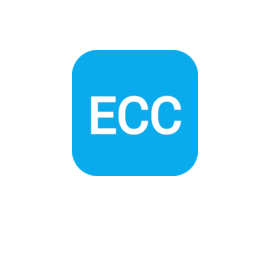
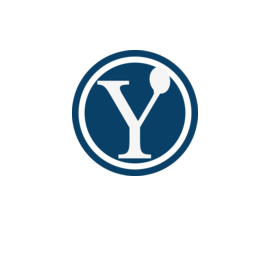
chore: change blog to myblog

Changed region(s): [[0.2667, 0.1778, 0.7407, 0.6519]]

diff --git a/src/assets/elements/Logo.tsx b/src/assets/elements/Logo.tsx
@@ -1,45 +1,15 @@
 import React from 'react';
 
 const Logo = () => (
-  <svg
-    width="40"
-    height="40"
-    viewBox="0 0 40 40"
-    fill="none"
-    xmlns="http://www.w3.org/2000/svg"
-    role="img"
-    aria-label="Logo"
-  >
-    <g clipPath="url(#clip0_37_816)">
-      <path
-        d="M32 0H8C3.58172 0 0 3.58172 0 8V32C0 36.4183 3.58172 40 8 40H32C36.4183 40 40 36.4183 40 32V8C40 3.58172 36.4183 0 32 0Z"
-        fill="#09ABEC"
-      />
-      <path
-        d="M13.6138 25.1735V26.4H7.59034V25.1735H13.6138ZM7.89502 15.0251V26.4H6.38721V15.0251H7.89502ZM12.8169 19.9156V21.1421H7.59034V19.9156H12.8169ZM13.5357 15.0251V16.2593H7.59034V15.0251H13.5357Z"
-        fill="white"
-      />
-      <path
-        d="M22.3477 22.7828H23.8477C23.7695 23.5016 23.5638 24.1448 23.2305 24.7125C22.8971 25.2803 22.4258 25.7307 21.8165 26.064C21.2071 26.3921 20.4467 26.5563 19.5353 26.5563C18.8686 26.5563 18.2618 26.4312 17.7149 26.1812C17.1733 25.9312 16.7071 25.5771 16.3165 25.1188C15.9258 24.6552 15.6238 24.1005 15.4102 23.4547C15.2019 22.8036 15.0977 22.0797 15.0977 21.2828V20.15C15.0977 19.3531 15.2019 18.6317 15.4102 17.986C15.6238 17.3349 15.9285 16.7776 16.3243 16.314C16.7253 15.8505 17.2071 15.4937 17.7695 15.2437C18.3321 14.9937 18.9649 14.8688 19.6681 14.8688C20.5274 14.8688 21.2539 15.0303 21.8477 15.3531C22.4414 15.676 22.9025 16.124 23.2305 16.6969C23.5638 17.2645 23.7695 17.9235 23.8477 18.6735H22.3477C22.2747 18.1421 22.1394 17.6864 21.9414 17.3063C21.7435 16.9208 21.4623 16.624 21.0977 16.4156C20.7331 16.2073 20.2566 16.1031 19.6681 16.1031C19.1629 16.1031 18.7175 16.1995 18.3321 16.3921C17.9519 16.5849 17.6315 16.8584 17.3711 17.2125C17.1159 17.5667 16.9233 17.9912 16.793 18.486C16.6629 18.9807 16.5977 19.5303 16.5977 20.1344V21.2828C16.5977 21.8401 16.655 22.3636 16.7695 22.8531C16.8894 23.3427 17.0691 23.7724 17.3086 24.1421C17.5482 24.512 17.8529 24.8036 18.2227 25.0172C18.5925 25.2255 19.0301 25.3297 19.5353 25.3297C20.1758 25.3297 20.6862 25.2281 21.0665 25.0251C21.4467 24.8219 21.7331 24.5303 21.9258 24.15C22.1238 23.7697 22.2643 23.314 22.3477 22.7828Z"
-        fill="white"
-      />
-      <path
-        d="M32.7695 22.7828H34.2695C34.1915 23.5016 33.9858 24.1448 33.6525 24.7125C33.3191 25.2803 32.8477 25.7307 32.2383 26.064C31.629 26.3921 30.8686 26.5563 29.9571 26.5563C29.2905 26.5563 28.6837 26.4312 28.1367 26.1812C27.5951 25.9312 27.129 25.5771 26.7383 25.1188C26.3477 24.6552 26.0457 24.1005 25.8321 23.4547C25.6238 22.8036 25.5195 22.0797 25.5195 21.2828V20.15C25.5195 19.3531 25.6238 18.6317 25.8321 17.986C26.0457 17.3349 26.3503 16.7776 26.7462 16.314C27.1471 15.8505 27.629 15.4937 28.1915 15.2437C28.7539 14.9937 29.3867 14.8688 30.0899 14.8688C30.9493 14.8688 31.6758 15.0303 32.2695 15.3531C32.8634 15.676 33.3243 16.124 33.6525 16.6969C33.9858 17.2645 34.1915 17.9235 34.2695 18.6735H32.7695C32.6967 18.1421 32.5613 17.6864 32.3634 17.3063C32.1654 16.9208 31.8842 16.624 31.5195 16.4156C31.155 16.2073 30.6785 16.1031 30.0899 16.1031C29.5847 16.1031 29.1394 16.1995 28.7539 16.3921C28.3738 16.5849 28.0534 16.8584 27.793 17.2125C27.5378 17.5667 27.3451 17.9912 27.2149 18.486C27.0847 18.9807 27.0195 19.5303 27.0195 20.1344V21.2828C27.0195 21.8401 27.0769 22.3636 27.1915 22.8531C27.3113 23.3427 27.491 23.7724 27.7305 24.1421C27.9701 24.512 28.2747 24.8036 28.6446 25.0172C29.0143 25.2255 29.4519 25.3297 29.9571 25.3297C30.5977 25.3297 31.1081 25.2281 31.4883 25.0251C31.8686 24.8219 32.155 24.5303 32.3477 24.15C32.5457 23.7697 32.6862 23.314 32.7695 22.7828Z"
-        fill="white"
-      />
-      <path
-        fillRule="evenodd"
-        clipRule="evenodd"
-        d="M19.6683 15.1849C19.0031 15.1849 18.415 15.3031 17.8983 15.5327C17.3785 15.7637 16.9347 16.0923 16.5643 16.5201C16.1989 16.9484 15.9134 17.4677 15.7111 18.0837C15.5147 18.6931 15.4142 19.3808 15.4142 20.15V21.2828C15.4142 22.0516 15.5146 22.742 15.7113 23.3568C15.9135 23.9681 16.1969 24.4855 16.5579 24.9143C16.9189 25.3376 17.3479 25.6633 17.8471 25.8939C18.3483 26.1229 18.9094 26.24 19.5355 26.24C20.4102 26.24 21.115 26.0825 21.6659 25.7861C22.2275 25.4787 22.6555 25.0677 22.9581 24.5524C23.2125 24.1192 23.3883 23.6357 23.4837 23.0991H22.6126C22.5226 23.546 22.3887 23.9457 22.2074 24.2944C21.985 24.7325 21.6521 25.0708 21.2158 25.3039C20.7727 25.5405 20.2047 25.6459 19.5355 25.6459C18.9862 25.6459 18.4933 25.5324 18.0678 25.2927L18.0663 25.2919L18.0649 25.2911C17.6503 25.0516 17.3094 24.7245 17.0435 24.3141C16.7822 23.9107 16.5897 23.4473 16.4627 22.9283L16.4623 22.9267L16.4619 22.9252C16.3413 22.4096 16.2818 21.8617 16.2818 21.2828V20.1344C16.2818 19.5077 16.3493 18.9307 16.4875 18.4055C16.6259 17.8795 16.8334 17.4181 17.1149 17.0276L17.1158 17.0264L17.1166 17.0252C17.4054 16.6324 17.7637 16.3259 18.1894 16.1101L18.191 16.1093C18.6273 15.8912 19.1225 15.7869 19.6683 15.7869C20.2909 15.7869 20.8271 15.8967 21.2549 16.1411C21.6742 16.3807 21.9977 16.7232 22.2226 17.1609C22.4043 17.5104 22.5347 17.9104 22.6174 18.3572H23.4862C23.3913 17.7916 23.2141 17.2928 22.9581 16.8569L22.9573 16.8555L22.9563 16.854C22.6581 16.3332 22.2405 15.9265 21.6969 15.6309C21.1605 15.3392 20.4889 15.1849 19.6683 15.1849ZM17.6414 14.9548C18.2497 14.6844 18.9271 14.5525 19.6683 14.5525C20.5665 14.5525 21.3481 14.7212 21.9991 15.0753C22.6425 15.4252 23.1463 15.9139 23.5043 16.5381C23.8631 17.1497 24.0805 17.8528 24.1625 18.6407L24.1989 18.9896H22.0722L22.0347 18.7164C21.9655 18.2125 21.8387 17.7933 21.6613 17.4523L21.6605 17.4507C21.4895 17.118 21.2507 16.8671 20.9411 16.6901C20.6397 16.518 20.2227 16.4193 19.6683 16.4193C19.2041 16.4193 18.809 16.5076 18.4746 16.6747C18.1407 16.844 17.8589 17.0839 17.6271 17.3985C17.3986 17.7161 17.221 18.1033 17.0991 18.5664C16.9769 19.0307 16.9142 19.5527 16.9142 20.1344V21.2828C16.9142 21.8179 16.9691 22.3164 17.0774 22.7795C17.1899 23.2389 17.3567 23.6344 17.5743 23.9703C17.7873 24.2989 18.0553 24.5548 18.3797 24.7424C18.6935 24.9189 19.075 25.0135 19.5355 25.0135C20.1474 25.0135 20.6003 24.9156 20.9177 24.746C21.2414 24.5732 21.481 24.3287 21.6441 24.0071L21.6449 24.0055L21.6457 24.004C21.8242 23.6608 21.9562 23.2395 22.0355 22.7337L22.0775 22.4665H24.2005L24.1623 22.8169C24.0799 23.5757 23.8617 24.2627 23.5035 24.8725C23.1395 25.4924 22.6251 25.9823 21.9685 26.3415L21.9675 26.342L21.9666 26.3425C21.2989 26.702 20.4833 26.8724 19.5355 26.8724C18.8285 26.8724 18.1761 26.7396 17.5837 26.4688L17.5826 26.4684C16.999 26.1989 16.4961 25.8167 16.0761 25.3239L16.0749 25.3225C15.6554 24.8247 15.3349 24.2333 15.1102 23.554L15.1098 23.5525L15.1093 23.5511C14.8895 22.8641 14.7818 22.1071 14.7818 21.2828V20.15C14.7818 19.3257 14.8895 18.5709 15.1095 17.8888L15.1101 17.8873C15.3349 17.202 15.6583 16.6072 16.0841 16.1087L16.0847 16.1079L16.0854 16.1072C16.517 15.6083 17.0366 15.2236 17.6414 14.9548ZM30.0902 15.1849C29.425 15.1849 28.8369 15.3031 28.3202 15.5327C27.8002 15.7637 27.3565 16.0924 26.9861 16.5203C26.6206 16.9485 26.3351 17.4679 26.133 18.084C25.9366 18.6932 25.8361 19.3809 25.8361 20.15V21.2828C25.8361 22.0516 25.9365 22.7419 26.133 23.3567C26.3353 23.968 26.6187 24.4855 26.9798 24.9143C27.3409 25.3376 27.7698 25.6633 28.2691 25.8939C28.7703 26.1229 29.3314 26.24 29.9574 26.24C30.8321 26.24 31.5369 26.0825 32.0878 25.7861C32.6494 25.4787 33.0774 25.0677 33.3799 24.5524C33.6343 24.1192 33.8103 23.6357 33.9055 23.0991H33.0346C32.9446 23.546 32.8106 23.9457 32.6293 24.2944C32.4069 24.7325 32.0739 25.0708 31.6377 25.3039C31.1946 25.5405 30.6266 25.6459 29.9574 25.6459C29.4082 25.6459 28.9151 25.5324 28.4897 25.2927L28.4882 25.2919L28.4867 25.2911C28.0722 25.0516 27.7313 24.7245 27.4654 24.3141C27.2041 23.9107 27.0115 23.4473 26.8846 22.9283L26.8842 22.9267L26.8838 22.9252C26.7631 22.4096 26.7037 21.8617 26.7037 21.2828V20.1344C26.7037 19.5077 26.7711 18.9307 26.9094 18.4055C27.0478 17.8795 27.2553 17.4181 27.5367 17.0276L27.5377 17.0264L27.5385 17.0252C27.8273 16.6324 28.1855 16.3259 28.6113 16.1101L28.6129 16.1093C29.0491 15.8912 29.5443 15.7869 30.0902 15.7869C30.7127 15.7869 31.249 15.8967 31.6767 16.1411C32.0961 16.3807 32.4195 16.7232 32.6445 17.1609C32.8262 17.5104 32.9566 17.9104 33.0393 18.3572H33.9081C33.8131 17.7916 33.6359 17.2928 33.3799 16.8569L33.3791 16.8555L33.3782 16.854C33.0799 16.3332 32.6623 15.9265 32.1187 15.6309C31.5823 15.3392 30.9107 15.1849 30.0902 15.1849ZM28.0633 14.9548C28.6715 14.6844 29.3491 14.5525 30.0902 14.5525C30.9883 14.5525 31.7699 14.7212 32.421 15.0753C33.0643 15.4252 33.5682 15.9139 33.9262 16.5381C34.285 17.1497 34.5023 17.8528 34.5843 18.6407L34.6207 18.9896H32.4941L32.4566 18.7164C32.3874 18.2125 32.2606 17.7933 32.0831 17.4523L32.0823 17.4507C31.9114 17.118 31.6726 16.8671 31.363 16.6901C31.0615 16.518 30.6446 16.4193 30.0902 16.4193C29.6261 16.4193 29.2309 16.5076 28.8965 16.6745C28.5626 16.844 28.2806 17.0839 28.049 17.3987C27.8205 17.7161 27.6429 18.1035 27.521 18.5664C27.3989 19.0307 27.3361 19.5527 27.3361 20.1344V21.2828C27.3361 21.8179 27.391 22.3164 27.4993 22.7795C27.6118 23.2389 27.7786 23.6344 27.9962 23.9703C28.2091 24.2989 28.4771 24.5548 28.8015 24.7425C29.1154 24.9189 29.4969 25.0135 29.9574 25.0135C30.5694 25.0135 31.0222 24.9156 31.3395 24.746C31.6633 24.5732 31.9029 24.3287 32.0659 24.0071L32.0667 24.0055L32.0675 24.004C32.2462 23.6608 32.3782 23.2395 32.4574 22.7337L32.4994 22.4665H34.6223L34.5842 22.8169C34.5018 23.5757 34.2835 24.2627 33.9254 24.8725C33.5614 25.4924 33.047 25.9823 32.3903 26.3415L32.3894 26.342L32.3885 26.3425C31.7207 26.702 30.9051 26.8724 29.9574 26.8724C29.2503 26.8724 28.5981 26.7396 28.0055 26.4688L28.0045 26.4684C27.4209 26.1989 26.9179 25.8167 26.4979 25.3239L26.4967 25.3225C26.0773 24.8247 25.7567 24.2333 25.5321 23.554L25.5317 23.5525L25.5311 23.5511C25.3114 22.8641 25.2037 22.1071 25.2037 21.2828V20.15C25.2037 19.3257 25.3114 18.5709 25.5314 17.8888L25.5319 17.8873C25.7567 17.202 26.0802 16.6072 26.5059 16.1087L26.5066 16.1079L26.5073 16.1072C26.9389 15.6083 27.4585 15.2236 28.0633 14.9548ZM6.0708 14.7088H13.8517V16.5756H8.21107V19.5993H13.1329V21.4584H8.21107V24.8572H13.9298V26.7163H6.0708V14.7088ZM7.57861 24.8572H7.27393V26.0837H6.70327V15.3412H7.27393V16.5756H7.57861V19.5993H7.27393V21.4584H7.57861V24.8572ZM8.21107 15.9431H13.2192V15.3412H8.21107V15.9431ZM8.21107 26.0837H13.2974V25.4896H8.21107V26.0837ZM8.21107 20.826H12.5005V20.2319H8.21107V20.826Z"
-        fill="white"
-      />
-    </g>
-    <defs>
-      <clipPath id="clip0_37_816">
-        <rect width="40" height="40" fill="white" />
-      </clipPath>
-    </defs>
-  </svg>
+  <svg width="40" height="40" viewBox="0 0 200 200" fill="none" xmlns="http://www.w3.org/2000/svg">
+<path d="M200 100C200 155.228 155.228 200 100 200C44.7715 200 0 155.228 0 100C0 44.7715 44.7715 0 100 0C155.228 0 200 44.7715 200 100ZM10.4189 100C10.4189 149.474 50.5257 189.581 100 189.581C149.474 189.581 189.581 149.474 189.581 100C189.581 50.5257 149.474 10.4189 100 10.4189C50.5257 10.4189 10.4189 50.5257 10.4189 100Z" fill="#094067"/>
+<circle cx="100" cy="100" r="80" fill="#094067"/>
+<path d="M59.24 68.64C57.64 65.8667 56.1467 63.6267 54.76 61.92C53.3733 60.1067 51.9333 58.6667 50.44 57.6C49.0533 56.5333 47.56 55.84 45.96 55.52C44.36 55.0933 42.44 54.88 40.2 54.88V48.8H90.6V54.88C85.2667 54.88 81.48 55.3067 79.24 56.16C77.1067 56.9067 76.04 58.2933 76.04 60.32C76.04 62.56 77.2667 65.76 79.72 69.92L104.52 112.32H105.16L123.24 81.92C126.653 76.16 129.053 71.6267 130.44 68.32C131.933 65.0133 132.68 62.3467 132.68 60.32C132.68 58.2933 131.88 56.9067 130.28 56.16C128.787 55.3067 126.12 54.88 122.28 54.88V48.8H158.92V54.88C156.68 54.88 154.653 55.2 152.84 55.84C151.133 56.48 149.32 57.76 147.4 59.68C145.48 61.6 143.347 64.2667 141 67.68C138.76 71.0933 135.987 75.5733 132.68 81.12L108.04 122.72V141.76C108.04 146.987 108.2 151.2 108.52 154.4C108.947 157.493 109.747 159.893 110.92 161.6C112.2 163.307 113.96 164.48 116.2 165.12C118.547 165.653 121.64 165.92 125.48 165.92V172H73.64V165.92C77.48 165.92 80.52 165.653 82.76 165.12C85.1067 164.48 86.8667 163.36 88.04 161.76C89.32 160.053 90.1733 157.707 90.6 154.72C91.0267 151.733 91.24 147.787 91.24 142.88V123.36L59.24 68.64Z" fill="#F5F5F5"/>
+<rect x="113.776" y="46.9973" width="46.2236" height="15.1422" fill="#094067"/>
+<ellipse cx="139.476" cy="48.0685" rx="16.1367" ry="21.2745" transform="rotate(-11.4859 139.476 48.0685)" fill="#F5F5F5"/>
+<ellipse cx="133.303" cy="64.745" rx="3.58463" ry="8.58273" fill="#F5F5F5"/>
+</svg>
+
 );
 
 export default Logo;

diff --git a/src/constants/navigation.ts b/src/constants/navigation.ts
@@ -1,0 +1,70 @@
+const navigation = [
+  {
+    text: 'ホーム',
+    emoji: '🏠',  
+    path: '/',
+    bold: true,
+  },
+  {
+    text: '知見',
+    emoji: '📚',
+    path: '/curate',
+    bold: true,
+  },
+];
+
+const categories = [
+  {
+    text: 'インフラ',
+    emoji: '🌐',
+    path: '/infrastructure',
+    bold: false,
+  },
+  {
+    text: '開発',
+    emoji: '👨💻',
+    path: '/development',
+    bold: false,
+  },
+];
+
+const links = [
+  {
+    text: 'ポートフォリオ',
+    emoji: '📋',
+    path: 'https://portfolio.yumekiti.net/',
+    bold: false,
+  },
+  {
+    text: 'Marplify',
+    emoji: '📝',
+    path: 'http://marplify.yumekiti.net/',
+    bold: false,
+  },
+  {
+    text: 'Slide Sync',
+    emoji: '📜',
+    path: 'https://chrome.google.com/webstore/detail/naimcoenmacdfkjnhphjgikaigaedgae?authuser=0&hl=ja',
+    bold: false,
+  },
+  {
+    text: 'Diff Sync Code',
+    emoji: '🔀',
+    path: 'http://diff.yumekiti.net/',
+    bold: false,
+  },
+  {
+    text: 'Twitter',
+    emoji: '🐦',
+    path: 'https://twitter.com/yumekiti1204',
+    bold: false,
+  },
+  {
+    text: 'GitHub',
+    emoji: '🐙',
+    path: 'https://github.com/yumekiti',
+    bold: false,
+  },
+];
+
+export { categories, navigation, links };

diff --git a/src/components/molecules/NavigationList.tsx b/src/components/molecules/NavigationList.tsx
@@ -3,24 +3,18 @@ import { Link } from 'react-router-dom';
 
 import LinkButton from '../atoms/LinkButton';
 
+import { navigation } from '../../constants/navigation';
+
 const Component: React.FC = () => (
   <nav className="py-2">
     <ul>
-      <li className="flex items-center">
-        <Link to="/" className="w-full">
-          <LinkButton emoji="🏠" text="ホーム" bold />
-        </Link>
-      </li>
-      <li className="flex items-center">
-        <Link to="/question" className="w-full">
-          <LinkButton emoji="🤔" text="質問" bold />
-        </Link>
-      </li>
-      <li className="flex items-center">
-        <Link to="/recruit" className="w-full">
-          <LinkButton emoji="📢" text="募集" bold />
-        </Link>
-      </li>
+      {navigation.map((item, index) => (
+        <li key={index} className="flex items-center">
+          <Link to={item.path} className="w-full">
+            <LinkButton emoji={item.emoji} text={item.text} bold={item.bold} />
+          </Link>
+        </li>
+      ))}
     </ul>
   </nav>
 );

diff --git a/src/components/organisms/RelatedLinks.tsx b/src/components/organisms/RelatedLinks.tsx
@@ -1,9 +1,10 @@
 import React from 'react';
+import { Link } from 'react-router-dom';
 
 import LinkButton from '../atoms/LinkButton';
 import LinkIcon from '../../assets/elements/LinkIcon';
 
-import links from '../../constants/links';
+import { links } from '../../constants/navigation';
 
 const Component: React.FC = () => (
   <div className="py-2">
@@ -16,13 +17,13 @@ const Component: React.FC = () => (
       </div>
 
       <ul>
-        <li className="flex items-center">
-          {links.map((link, index) => (
-            <a key={index} href={link.url} target="blank" className="w-full">
-              <LinkButton emoji={link.emoji} text={link.text} />
-            </a>
-          ))}
-        </li>
+        {links.map((item, index) => (
+          <li key={index} className="flex items-center">
+            <Link to={item.path} className="w-full">
+              <LinkButton emoji={item.emoji} text={item.text} bold={item.bold} />
+            </Link>
+          </li>
+        ))}
       </ul>
     </div>
   </div>

diff --git a/src/App.tsx b/src/App.tsx
@@ -20,13 +20,9 @@ const App = () => {
     >
       <Routes>
         <Route path="/" element={<List path="content" />} />
-        <Route path="/question" element={<List path="question" />} />
-        <Route path="/recruit" element={<List path="recruit" />} />
-        <Route path="/it" element={<List path="content%2FIT" />} />
-        <Route path="/it/ai" element={<List path="content/IT/ai" />} />
-        <Route path="/it/nw_sec" element={<List path="content/IT/nw_sec" />} />
-        <Route path="/it/iot" element={<List path="content/IT/iot" />} />
-        <Route path="/it/design" element={<List path="content/IT/design" />} />
+        <Route path="/curate" element={<List path="curate" />} />
+        <Route path="/infrastructure" element={<List path="content/infrastructure" />} />
+        <Route path="/development" element={<List path="content/development" />} />
         <Route path="/content/:id" element={<Detail />} />
         <Route path="/*" element={<NotFound />} />
       </Routes>

diff --git a/src/components/molecules/CategoryList.tsx b/src/components/molecules/CategoryList.tsx
@@ -3,16 +3,16 @@ import { Link } from 'react-router-dom';
 
 import LinkButton from '../atoms/LinkButton';
 
-import fields from '../../constants/fields';
+import { categories } from '../../constants/navigation';
 
 const Component: React.FC = () => (
   <nav className="py-2">
-    <h2 className="text-Headline font-bold p-2">分野</h2>
+    <h2 className="text-Headline font-bold p-2">カテゴリ</h2>
     <ul>
-      {fields.map((field, index) => (
+      {categories.map((item, index) => (
         <li key={index} className="flex items-center">
-          <Link to={field.path} className="w-full">
-            <LinkButton emoji={field.emoji} text={field.text} bold />
+          <Link to={item.path} className="w-full">
+            <LinkButton emoji={item.emoji} text={item.text} bold={item.bold} />
           </Link>
         </li>
       ))}

diff --git a/src/components/organisms/About.tsx b/src/components/organisms/About.tsx
@@ -13,7 +13,7 @@ const Component: React.FC = () => (
       </div>
       <div className="mt-2 text-justify whitespace-pre-wrap text-SubHeadline px-4">
         {
-          'ようこそ、ECCコンピュータ専門学校の技術ブログへ！\n\nこのブログは、学生が自由に記事を投稿できるようになっています。情報の保持、交流の場提供、新しい情報の発見を目指します。\n\n技術情報共有、疑問解決、仲間募集、どんなトピックも歓迎！\n\nみんなで学び合いましょう！🚀'
+          'ようこそ、ゆめきちのブログへ！\n\n自由気ままにブログを上げていきます興味がある記事があれば見ていってください！\n\nTwitter: @yumekiti1204\nGithub: @yumekiti'
         }
       </div>
     </div>

diff --git a/public/index.html b/public/index.html
@@ -7,7 +7,7 @@
     <meta name="theme-color" content="#000000" />
     <meta
       name="description"
-      content="ECCコンピュータ専門学校が運営する、技術者のための情報共有サイトです。"
+      content="ブログっぽいなにかです。"
     />
 
     <!-- generated favicons -->
@@ -33,7 +33,7 @@
       work correctly both with client-side routing and a non-root public URL.
       Learn how to configure a non-root public URL by running `npm run build`.
     -->
-    <title>ECCコンピュータ専門学校 技術情報共有サイト</title>
+    <title>ブログっぽいなにか</title>
   </head>
   <body>
     <noscript>You need to enable JavaScript to run this app.</noscript>

diff --git a/src/styles/index.css b/src/styles/index.css
@@ -2,11 +2,11 @@
 @tailwind components;
 @tailwind utilities;
 
-@import url('https://fonts.googleapis.com/css2?family=Roboto:wght@300&display=swap');
+@import url('https://fonts.googleapis.com/css2?family=Zen+Kaku+Gothic+Antique:wght@500&display=swap');
 
 body {
   margin: 0;
-  font-family: 'Roboto', sans-serif;
+  font-family: 'Zen Kaku Gothic Antique', sans-serif;
   background-color: #d8eefe;
 }
 

diff --git a/src/components/organisms/Footer.tsx b/src/components/organisms/Footer.tsx
@@ -4,7 +4,7 @@ const Component: React.FC = () => (
   <footer className="bg-Main p-1 md:p-2">
     <div className="max-w-7xl mx-auto text-SubHeadline">
       <span className="px-2">
-        &copy; 2023 - Copyright ECCコンピュータ専門学校 プログラミング研究部.
+        &copy; 2023 - Copyright Yumekiti.
       </span>
     </div>
   </footer>

diff --git a/src/components/molecules/TagList.tsx b/src/components/molecules/TagList.tsx
@@ -9,7 +9,7 @@ const Component: React.FC = () => {
 
   if (isLoading) return <p>Loading...</p>;
   if (error) return <p>Error!</p>;
-  if (!tags.length)
+  if (data && data.data.length && !tags.length)
     setTags(
       data.data.sort(
         (a: { count: number }, b: { count: number }) => b.count - a.count,
